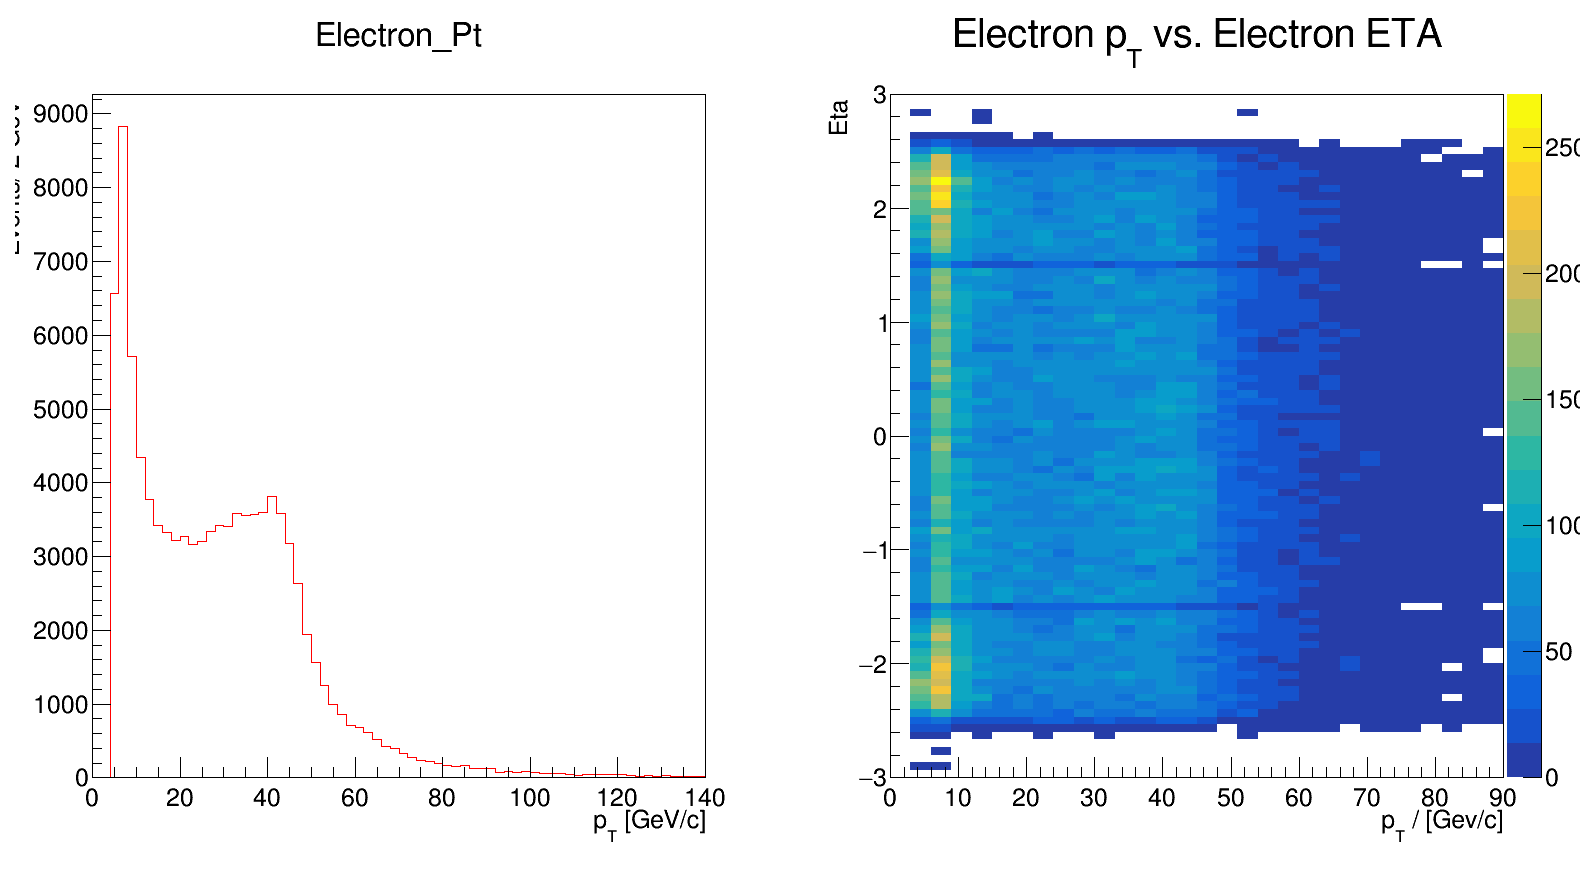
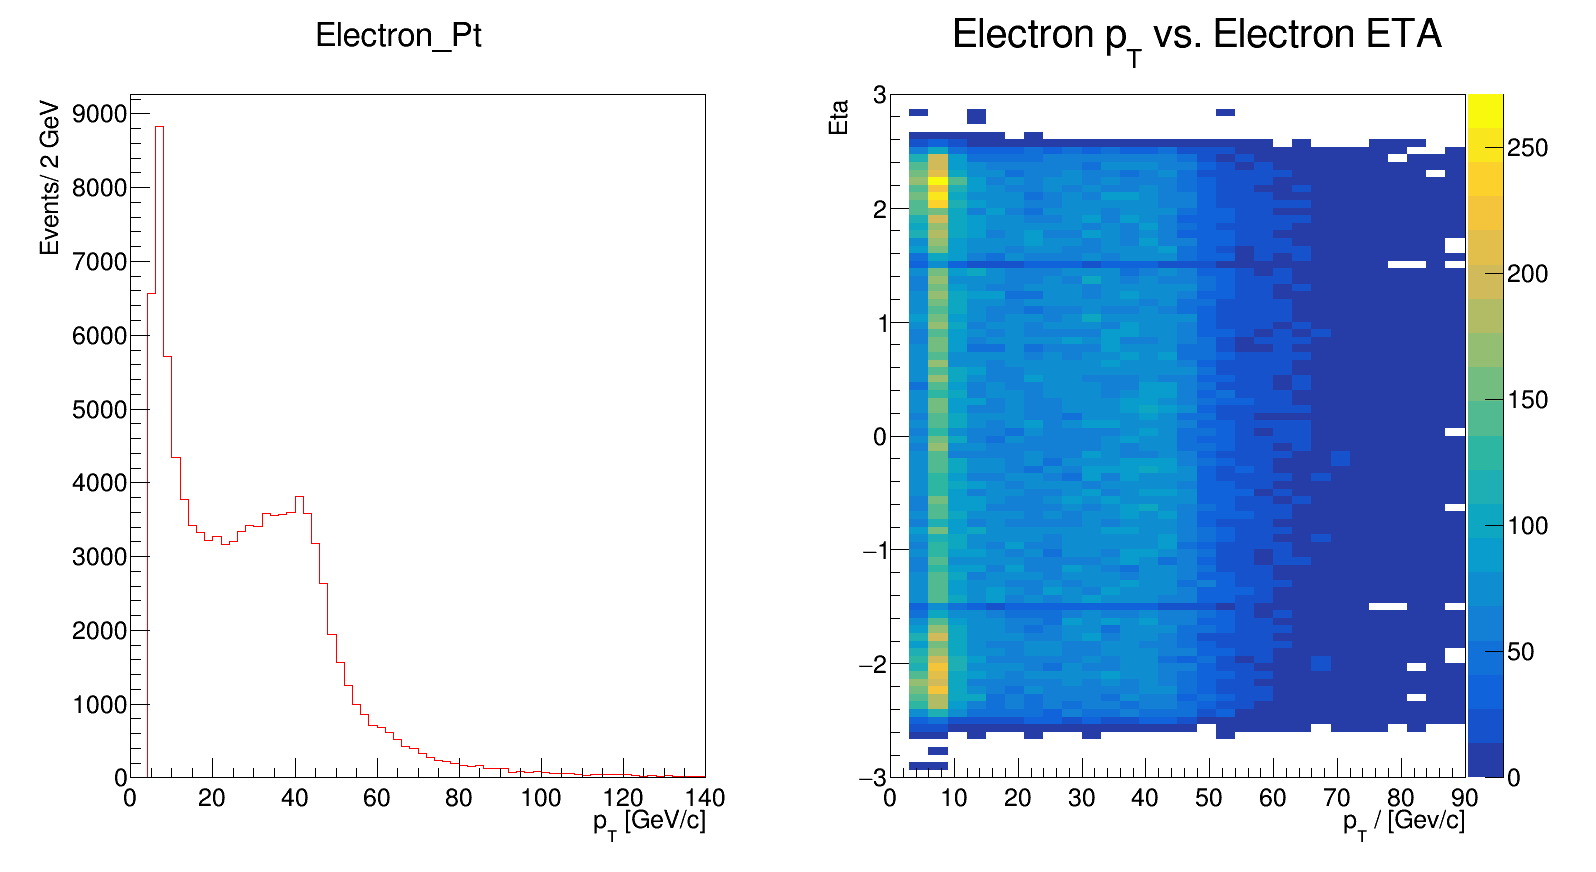
Kolokvij_1

diff --git a/Kolokvij_1/Zadatak_2/Analyzer.cpp b/Kolokvij_1/Zadatak_2/Analyzer.cpp
@@ -94,6 +94,7 @@ void Analyzer::Drawing(){
 	canvas->Divide(2);
 	
 	canvas->cd(1);
+	gPad->SetLeftMargin(0.15);
 	histo_ele_pt->Draw();
 	histo_ele_pt->GetXaxis()->SetTitle("p_{T} [GeV/c]");
 	histo_ele_pt->GetYaxis()->SetTitle("Events/ 2 GeV ");
@@ -101,6 +102,7 @@ void Analyzer::Drawing(){
 	gStyle->SetOptStat(0000);
 	
 	canvas->cd(2);
+	gPad->SetRightMargin(0.15);
 	histo_2D->Draw("COLZ");
 	histo_2D->SetTitle("Electron p_{T} vs. Electron ETA");
 	histo_2D->GetXaxis()->SetTitle("p_{T} / [Gev/c]");
